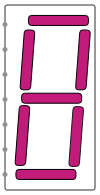
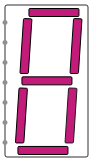
-empty-

Changed region(s): [[0.0215, 0.0, 0.9677, 0.9877], [0.2796, 0.679, 0.3011, 0.7099]]

diff --git a/shapes/data/global/digital/display/7Segment.js b/shapes/data/global/digital/display/7Segment.js
@@ -13,46 +13,46 @@ var digital_display_7Segment = CircuitFigure.extend({
    {
      var _this = this;
 
-     this._super( $.extend({stroke:0, bgColor:null, width:90,height:185},attr), setter, getter);
+     this._super( $.extend({stroke:0, bgColor:null, width:83,height:152},attr), setter, getter);
      var port;
      // port_a
-     port = this.addPort(new DecoratedInputPort(), new draw2d.layout.locator.XYRelPortLocator({x: 0, y: 10.54054054054054 }));
+     port = this.addPort(new DecoratedInputPort(), new draw2d.layout.locator.XYRelPortLocator({x: 0, y: 11.513157894736842 }));
      port.setConnectionDirection(3);
      port.setBackgroundColor("#37B1DE");
      port.setName("port_a");
      port.setMaxFanOut(20);
      // port_b
-     port = this.addPort(new DecoratedInputPort(), new draw2d.layout.locator.XYRelPortLocator({x: 0, y: 24.054054054054056 }));
+     port = this.addPort(new DecoratedInputPort(), new draw2d.layout.locator.XYRelPortLocator({x: 0, y: 24.67105263157895 }));
      port.setConnectionDirection(3);
      port.setBackgroundColor("#37B1DE");
      port.setName("port_b");
      port.setMaxFanOut(20);
      // port_c
-     port = this.addPort(new DecoratedInputPort(), new draw2d.layout.locator.XYRelPortLocator({x: 0, y: 37.56756756756757 }));
+     port = this.addPort(new DecoratedInputPort(), new draw2d.layout.locator.XYRelPortLocator({x: 0, y: 37.828947368421055 }));
      port.setConnectionDirection(3);
      port.setBackgroundColor("#37B1DE");
      port.setName("port_c");
      port.setMaxFanOut(20);
      // port_d
-     port = this.addPort(new DecoratedInputPort(), new draw2d.layout.locator.XYRelPortLocator({x: 0, y: 51.08108108108108 }));
+     port = this.addPort(new DecoratedInputPort(), new draw2d.layout.locator.XYRelPortLocator({x: 0, y: 50.986842105263165 }));
      port.setConnectionDirection(3);
      port.setBackgroundColor("#37B1DE");
      port.setName("port_d");
      port.setMaxFanOut(20);
      // port_e
-     port = this.addPort(new DecoratedInputPort(), new draw2d.layout.locator.XYRelPortLocator({x: 0, y: 64.5945945945946 }));
+     port = this.addPort(new DecoratedInputPort(), new draw2d.layout.locator.XYRelPortLocator({x: 0, y: 64.14473684210527 }));
      port.setConnectionDirection(3);
      port.setBackgroundColor("#37B1DE");
      port.setName("port_e");
      port.setMaxFanOut(20);
      // port_f
-     port = this.addPort(new DecoratedInputPort(), new draw2d.layout.locator.XYRelPortLocator({x: 0, y: 78.10810810810811 }));
+     port = this.addPort(new DecoratedInputPort(), new draw2d.layout.locator.XYRelPortLocator({x: 0, y: 77.30263157894737 }));
      port.setConnectionDirection(3);
      port.setBackgroundColor("#37B1DE");
      port.setName("port_f");
      port.setMaxFanOut(20);
      // port_g
-     port = this.addPort(new DecoratedInputPort(), new draw2d.layout.locator.XYRelPortLocator({x: 0, y: 91.62162162162163 }));
+     port = this.addPort(new DecoratedInputPort(), new draw2d.layout.locator.XYRelPortLocator({x: 0, y: 90.46052631578948 }));
      port.setConnectionDirection(3);
      port.setBackgroundColor("#37B1DE");
      port.setName("port_g");
@@ -62,8 +62,8 @@ var digital_display_7Segment = CircuitFigure.extend({
    createShapeElement : function()
    {
       var shape = this._super();
-      this.originalWidth = 90;
-      this.originalHeight= 185;
+      this.originalWidth = 83;
+      this.originalHeight= 152;
       return shape;
    },
 
@@ -72,47 +72,47 @@ var digital_display_7Segment = CircuitFigure.extend({
        this.canvas.paper.setStart();
        var shape = null;
        // BoundingBox
-       shape = this.canvas.paper.path("M0,0 L90,0 L90,185 L0,185");
+       shape = this.canvas.paper.path("M0,0 L83,0 L83,152 L0,152");
        shape.attr({"stroke":"none","stroke-width":0,"fill":"none"});
        shape.data("name","BoundingBox");
        
        // circle
-       shape = this.canvas.paper.path('M0,2Q0,0 2, 0L88,0Q90,0 90, 2L90,183Q90,185 88, 185L2,185Q0,185 0, 183L0,2');
+       shape = this.canvas.paper.path('M0,2Q0,0 2, 0L81,0Q83,0 83, 2L83,150Q83,152 81, 152L2,152Q0,152 0, 150L0,2');
        shape.attr({"stroke":"rgba(48,48,48,1)","stroke-width":1,"fill":"rgba(255,255,255,1)","dasharray":null,"stroke-dasharray":null,"opacity":1});
        shape.data("name","circle");
        
        // seg_a
-       shape = this.canvas.paper.path('M23.445800000000418,13.439400000000205Q23.445800000000418,10.439400000000205 26.445800000000418, 10.439400000000205L80.44580000000042,10.439400000000205Q83.44580000000042,10.439400000000205 83.44580000000042, 13.439400000000205L83.44580000000042,17.439400000000205Q83.44580000000042,20.439400000000205 80.44580000000042, 20.439400000000205L26.445800000000418,20.439400000000205Q23.445800000000418,20.439400000000205 23.445800000000418, 17.439400000000205L23.445800000000418,13.439400000000205');
+       shape = this.canvas.paper.path('M23.945800000000418,4.5Q23.945800000000418,3.5 24.945800000000418, 3.5L72.94580000000042,3.5Q73.94580000000042,3.5 73.94580000000042, 4.5L73.94580000000042,10.5Q73.94580000000042,11.5 72.94580000000042, 11.5L24.945800000000418,11.5Q23.945800000000418,11.5 23.945800000000418, 10.5L23.945800000000418,4.5');
        shape.attr({"stroke":"rgba(0,0,0,1)","stroke-width":1,"fill":"rgba(194,27,122,1)","dasharray":null,"stroke-dasharray":null,"opacity":1});
        shape.data("name","seg_a");
        
        // seg_b
-       shape = this.canvas.paper.path('M74.71072077107742,27.838439779342117Q74.93453192061952,24.846800000000258 77.93225340387478, 24.96370127813659L82.44807851674516,25.139803604681425Q85.44580000000042,25.256704882817758 85.22045796808241, 28.248229739584126L81.18241011129932,81.85527514323388Q80.95706807938132,84.84680000000026 77.95706807938132, 84.84680000000026L73.44580000000042,84.84680000000026Q70.44580000000042,84.84680000000026 70.66961114954252, 81.8551602206584L74.71072077107742,27.838439779342117');
+       shape = this.canvas.paper.path('M68.52583360974596,14.497875356164712Q68.59098553649528,13.5 69.58998871104984, 13.54463918939564L76.00099682544544,13.831106953187371Q77,13.875746142583012 76.93440183190458, 14.873592263155984L73.47461263160014,67.50215387942703Q73.40901446350472,68.5 72.40901446350472, 68.5L66,68.5Q65,68.5 65.06515192674932, 67.50212464383529L68.52583360974596,14.497875356164712');
        shape.attr({"stroke":"rgba(3,3,3,1)","stroke-width":1,"fill":"rgba(194,27,122,1)","dasharray":null,"stroke-dasharray":null,"opacity":1});
        shape.data("name","seg_b");
        
        // seg_c
-       shape = this.canvas.paper.path('M67.98722077107736,104.43103977934206Q68.21103192061946,101.4394000000002 71.2087534038747, 101.55630127813706L75.72457851674513,101.73240360468267Q78.72230000000036,101.84930488281952 78.49695796808236, 104.8408297395859L74.45891011129926,158.44787514323383Q74.23356807938126,161.4394000000002 71.23356807938126, 161.4394000000002L66.72230000000036,161.4394000000002Q63.72230000000036,161.4394000000002 63.94611114954245, 158.44776022065835L67.98722077107736,104.43103977934206');
+       shape = this.canvas.paper.path('M63.525833609746854,83.93727535616492Q63.59098553649619,82.9394000000002 64.58998871105075, 82.98403918939596L71.00099682544544,83.27050695318837Q72,83.31514614258413 71.93440183190457, 84.3129922631571L68.47461263159924,136.94155387942723Q68.40901446350381,137.9394000000002 67.40901446350381, 137.9394000000002L61,137.9394000000002Q60,137.9394000000002 60.06515192674934, 136.9415246438355L63.525833609746854,83.93727535616492');
        shape.attr({"stroke":"rgba(28,28,28,1)","stroke-width":1,"fill":"rgba(194,27,122,1)","dasharray":null,"stroke-dasharray":null,"opacity":1});
        shape.data("name","seg_c");
        
        // seg_d
-       shape = this.canvas.paper.path('M10.945800000000418,167.4394000000002Q10.945800000000418,164.4394000000002 13.945800000000418, 164.4394000000002L67.94580000000042,164.4394000000002Q70.94580000000042,164.4394000000002 70.94580000000042, 167.4394000000002L70.94580000000042,171.4394000000002Q70.94580000000042,174.4394000000002 67.94580000000042, 174.4394000000002L13.945800000000418,174.4394000000002Q10.945800000000418,174.4394000000002 10.945800000000418, 171.4394000000002L10.945800000000418,167.4394000000002');
+       shape = this.canvas.paper.path('M12.945800000000418,142.4394000000002Q12.945800000000418,141.4394000000002 13.945800000000418, 141.4394000000002L61.94580000000042,141.4394000000002Q62.94580000000042,141.4394000000002 62.94580000000042, 142.4394000000002L62.94580000000042,148.4394000000002Q62.94580000000042,149.4394000000002 61.94580000000042, 149.4394000000002L13.945800000000418,149.4394000000002Q12.945800000000418,149.4394000000002 12.945800000000418, 148.4394000000002L12.945800000000418,142.4394000000002');
        shape.attr({"stroke":"rgba(0,0,0,1)","stroke-width":1,"fill":"rgba(194,27,122,1)","dasharray":null,"stroke-dasharray":null,"opacity":1});
        shape.data("name","seg_d");
        
        // seg_e
-       shape = this.canvas.paper.path('M14.210720771077426,103.43103977934206Q14.43453192061952,100.4394000000002 17.432253403874775, 100.55630127813653L21.948078516745163,100.73240360468138Q24.945800000000418,100.8493048828177 24.72045796808242, 103.84082973958408L20.682410111299312,157.44787514323383Q20.457068079381315,160.4394000000002 17.457068079381315, 160.4394000000002L12.945800000000418,160.4394000000002Q9.945800000000418,160.4394000000002 10.169611149542511, 157.44776022065835L14.210720771077426,103.43103977934206');
+       shape = this.canvas.paper.path('M13.97163360974638,83.93727535616492Q14.0367855364957,82.9394000000002 15.035788711050266, 82.98403918939584L21.44679682544585,83.27050695318758Q22.445800000000418,83.31514614258322 22.380201831905, 84.31299226315619L18.920412631600552,136.94155387942723Q18.854814463505136,137.9394000000002 17.854814463505136, 137.9394000000002L11.445800000000418,137.9394000000002Q10.445800000000418,137.9394000000002 10.510951926749737, 136.9415246438355L13.97163360974638,83.93727535616492');
        shape.attr({"stroke":"rgba(0,0,0,1)","stroke-width":1,"fill":"rgba(194,27,122,1)","dasharray":null,"stroke-dasharray":null,"opacity":1});
        shape.data("name","seg_e");
        
        // seg_f
-       shape = this.canvas.paper.path('M19.210720771077426,27.838439779342117Q19.43453192061952,24.846800000000258 22.432253403874817, 24.963701278135552L26.94807851674512,25.139803604678825Q29.945800000000418,25.25670488281412 29.720457968082435, 28.248229739580495L25.682410111299298,81.85527514323388Q25.457068079381315,84.84680000000026 22.457068079381315, 84.84680000000026L17.945800000000418,84.84680000000026Q14.945800000000418,84.84680000000026 15.169611149542511, 81.8551602206584L19.210720771077426,27.838439779342117');
+       shape = this.canvas.paper.path('M18.47163360974638,14.497875356164712Q18.5367855364957,13.5 19.535788711050284, 13.544639189395209L25.946796825445833,13.831106953184165Q26.945800000000418,13.875746142579374 26.88020183190501, 14.873592263152347L23.420412631600545,67.50215387942703Q23.354814463505136,68.5 22.354814463505136, 68.5L15.945800000000418,68.5Q14.945800000000418,68.5 15.010951926749737, 67.50212464383529L18.47163360974638,14.497875356164712');
        shape.attr({"stroke":"rgba(0,0,0,1)","stroke-width":1,"fill":"rgba(194,27,122,1)","dasharray":null,"stroke-dasharray":null,"opacity":1});
        shape.data("name","seg_f");
        
        // seg_g
-       shape = this.canvas.paper.path('M16.670600000000377,91.23220000000038Q16.670600000000377,88.23220000000038 19.670600000000377, 88.23220000000038L73.67060000000038,88.23220000000038Q76.67060000000038,88.23220000000038 76.67060000000038, 91.23220000000038L76.67060000000038,95.23220000000038Q76.67060000000038,98.23220000000038 73.67060000000038, 98.23220000000038L19.670600000000377,98.23220000000038Q16.670600000000377,98.23220000000038 16.670600000000377, 95.23220000000038L16.670600000000377,91.23220000000038');
+       shape = this.canvas.paper.path('M16.945800000000418,72.84680000000026Q16.945800000000418,71.84680000000026 17.945800000000418, 71.84680000000026L65.94580000000042,71.84680000000026Q66.94580000000042,71.84680000000026 66.94580000000042, 72.84680000000026L66.94580000000042,78.84680000000026Q66.94580000000042,79.84680000000026 65.94580000000042, 79.84680000000026L17.945800000000418,79.84680000000026Q16.945800000000418,79.84680000000026 16.945800000000418, 78.84680000000026L16.945800000000418,72.84680000000026');
        shape.attr({"stroke":"rgba(0,0,0,1)","stroke-width":1,"fill":"rgba(194,27,122,1)","dasharray":null,"stroke-dasharray":null,"opacity":1});
        shape.data("name","seg_g");
        
